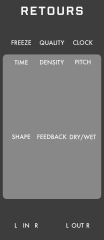
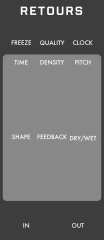
Repoint MetaModule sync to v2; regenerate MM faceplates; add panel-specs README

diff --git a/metamodule/loooop/sync_info_positions.py b/metamodule/loooop/sync_info_positions.py
@@ -5,9 +5,8 @@ rects from the canonical res/*.svg panels at the repo root.
 The headers are HAND-MAINTAINED: element names, order, structs, defaults, and
 menu-only alt-params are a contract with the matching *Core.cc. Header
 element coordinates are synced by the generic tool
-~/Dev/vcv-panel-gen/mm_sync.py (strict mode, name-matched through each
-module's sync-map-*.yaml) (requires vcv-panel-gen at commit da5a583
-or later — the branch that ships mm_sync.py with --strict); this script then
+~/Dev/vcv-panel-gen-redux/mm_sync.py (strict mode, name-matched through each
+module's sync-map-*.yaml); this script then
 patches the waveform display widget's rect in the matching src/loooop/*.cpp
 from the SVG's SCREEN rect — the one coordinate neither mm_sync nor the
 build-install.sh coord sync covers. Each module's cpp is validated before its
@@ -26,7 +25,7 @@ import sys
 import xml.etree.ElementTree as ET
 
 HERE = os.path.dirname(os.path.abspath(__file__))
-PANEL_GEN = os.path.expanduser("~/Dev/vcv-panel-gen")
+PANEL_GEN = os.path.expanduser("~/Dev/vcv-panel-gen-redux")
 
 # HERE is metamodule/loooop/; the repo root is two levels up. The canonical
 # panel SVGs live at res/ (vcv/res is a build-time copy) and the module

diff --git a/panel-specs/README.md b/panel-specs/README.md
@@ -1,0 +1,52 @@
+# panel-specs/
+
+Declarative panel layouts (v2 spec format) for every RobotBoy module. Each
+`<slug>.yaml` here generates the corresponding `res/<Slug>.svg`.
+
+## Commands
+
+Generate, using redux venv path per the migration's ground rules:
+
+```bash
+~/Dev/vcv-panel-gen-redux/.venv/bin/python ~/Dev/vcv-panel-gen-redux/panelgen.py \
+    panel-specs/<spec>.yaml --out res/<Slug>.svg
+```
+
+Validate a spec without writing anything:
+
+```bash
+~/Dev/vcv-panel-gen-redux/.venv/bin/python ~/Dev/vcv-panel-gen-redux/panelgen.py \
+    panel-specs/<spec>.yaml --check
+```
+
+Preview (composites real ComponentLibrary art onto the panel, opens a
+browser):
+
+```bash
+~/Dev/vcv-panel-gen-redux/.venv/bin/python ~/Dev/vcv-panel-gen-redux/panelgen.py \
+    panel-specs/<spec>.yaml --out res/<Slug>.svg --preview --open
+```
+
+## Theme
+
+House defaults are read automatically from `~/.config/vcv-panel-gen/theme.yaml`
+(same schema across v1 and v2); no flag needed for a normal RobotBoy
+generate. Per-panel overrides live in the spec's own `theme:` block (see
+`yellowjacket-gold.yaml` for an example).
+
+## More
+
+- Layout judgment (grid math, spacing recipes, control clustering) lives in
+  the `vcv-panel` skill, not here — read that before writing or editing a
+  spec.
+- Tool internals and the full spec-format reference:
+  `~/Dev/vcv-panel-gen-redux/README.md` and
+  `~/Dev/vcv-panel-gen-redux/docs/superpowers/specs/2026-07-17-grid-panel-generator-design.md`.
+
+## Rules
+
+- **`res/*.svg` are generated artifacts — never hand-edit them.** Change the
+  spec and regenerate. (`vcv/res/` is a further build-time copy made by
+  `vcv/Makefile`; also never hand-edited.)
+- `Particules` and `Retours` were formerly hand-built Inkscape originals;
+  both are now spec-driven like every other panel here.
